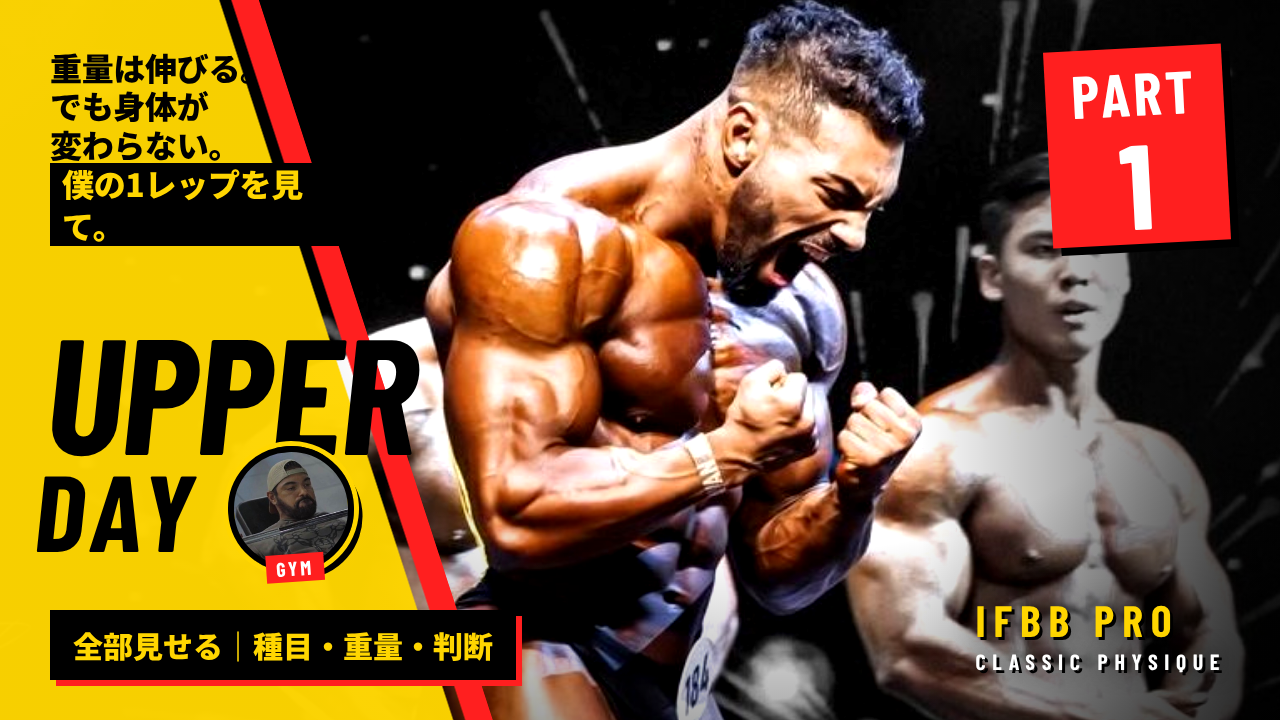
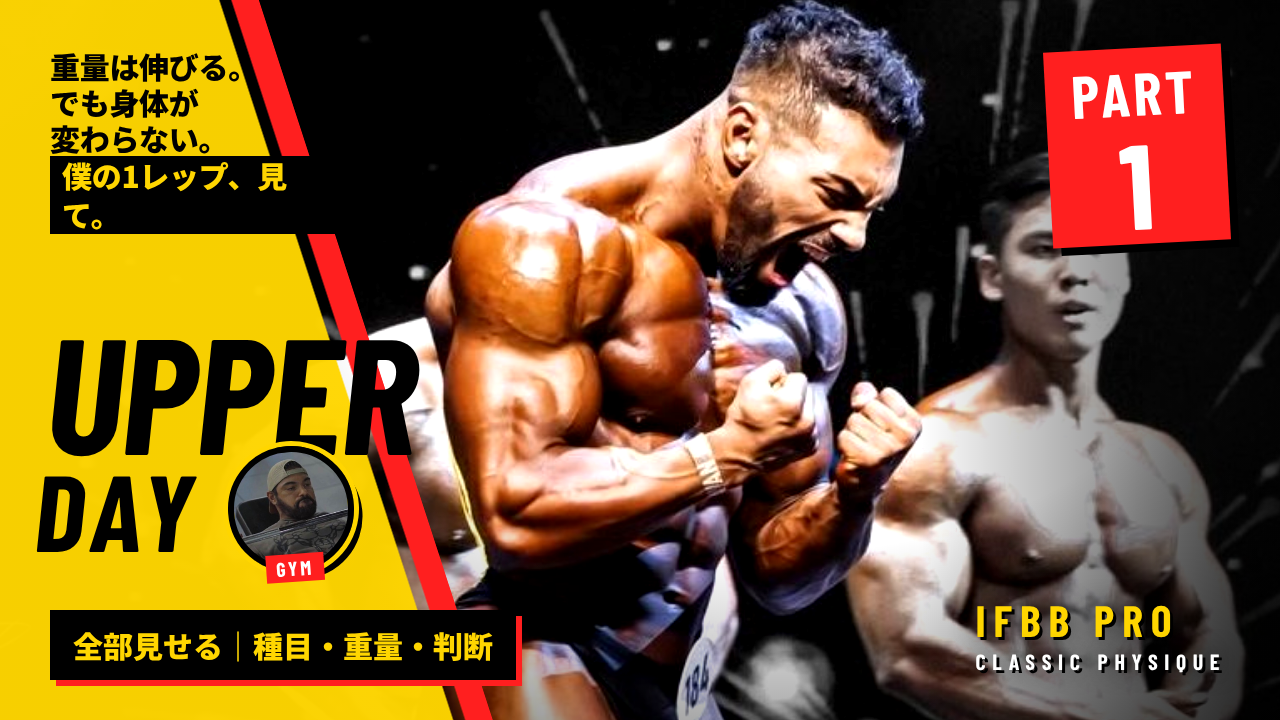
UPPER DAY thumbnails: keep the hook line on one row
Claude-Session: https://claude.ai/code/session_01HRty6kL8VRnpLHHHzSF3iS

Changed region(s): [[0.0312, 0.0611, 0.2812, 0.3667]]

diff --git a/assets/yt/thumb-template.html b/assets/yt/thumb-template.html
@@ -10,7 +10,7 @@ body{font-family:"NS",sans-serif;color:#fff;position:relative}
 .vig{position:absolute;inset:0;background:radial-gradient(80% 80% at 60% 45%,rgba(0,0,0,0) 40%,rgba(0,0,0,.7) 100%)}
 .stripe{position:absolute;left:-60px;top:0;width:620px;height:720px;background:linear-gradient(72deg,rgba(255,214,0,.97) 0 60%,rgba(255,214,0,0) 60.2%);}
 .stripe2{position:absolute;left:-60px;top:0;width:640px;height:720px;background:linear-gradient(72deg,transparent 0 60%,#ff1f1f 60.2% 63.2%,transparent 63.3%)}
-.k{position:absolute;left:50px;top:48px;font-size:32px;font-weight:900;line-height:1.2;color:#000;letter-spacing:-.01em;width:300px}
+.k{position:absolute;left:50px;top:48px;font-size:30px;font-weight:900;line-height:1.2;color:#000;letter-spacing:-.01em;width:300px}
 .k em{font-style:normal;background:#000;color:#ffd600;padding:0 12px;display:inline-block;line-height:1.3}
 .h{position:absolute;left:44px;top:318px;font-family:"BC",sans-serif;font-size:164px;font-weight:700;line-height:.88;letter-spacing:-.01em;color:#000;transform:skew(-6deg)}
 .h span{display:block;font-size:108px;letter-spacing:.06em}
@@ -22,7 +22,7 @@ body{font-family:"NS",sans-serif;color:#fff;position:relative}
 </style></head><body>
 <div class="bg"></div><div class="dim"></div><div class="vig"></div>
 <div class="stripe"></div><div class="stripe2"></div>
-<p class="k">重量は伸びる。<br>でも身体が<br>変わらない。<br><em>僕の1レップを見て。</em></p>
+<p class="k">重量は伸びる。<br>でも身体が<br>変わらない。<br><em>僕の1レップ、見て。</em></p>
 <p class="h">UPPER<span>DAY</span></p>
 <div class="part">PART<b>__PART__</b></div>
 <p class="nocut">全部見せる｜種目・重量・判断</p>
